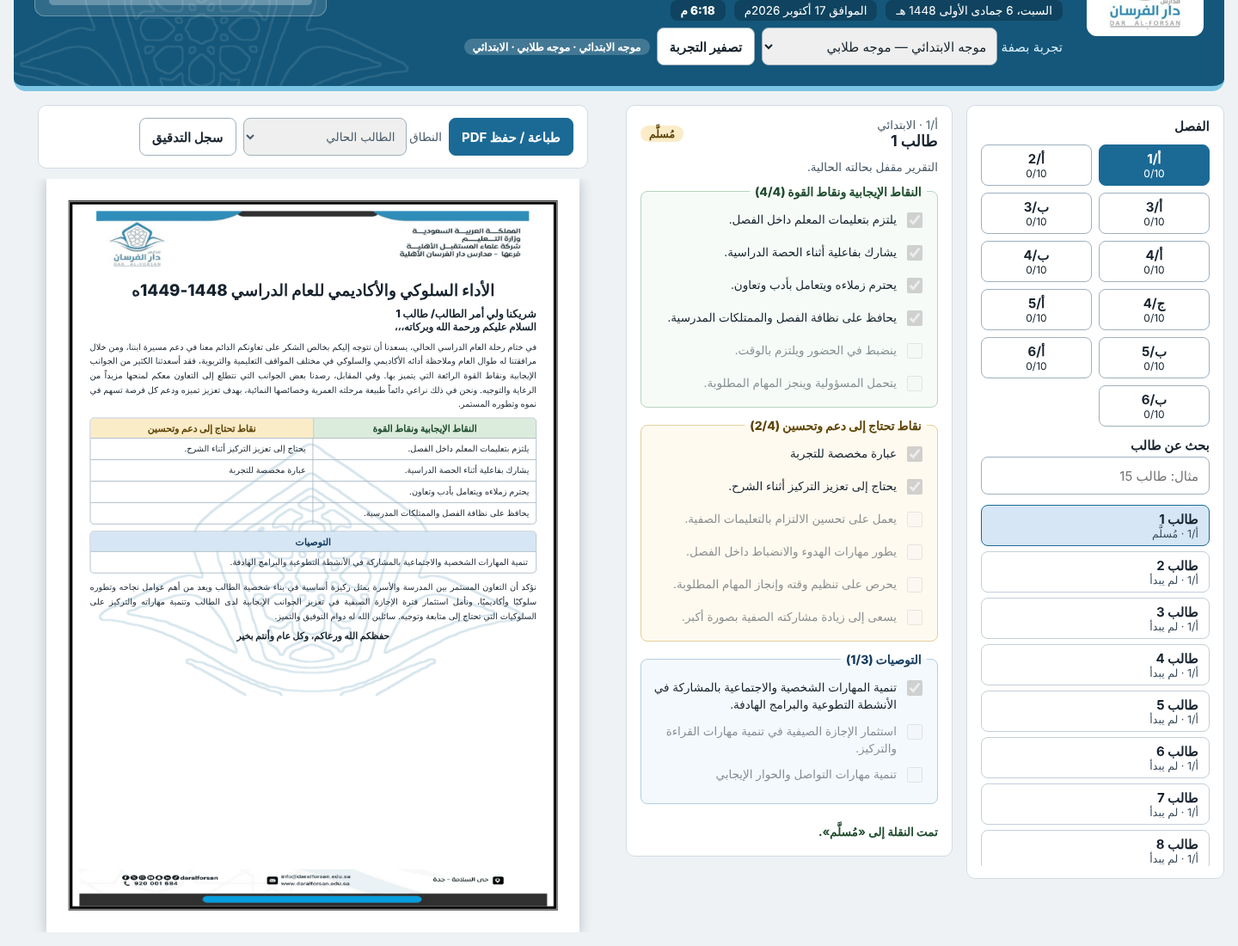
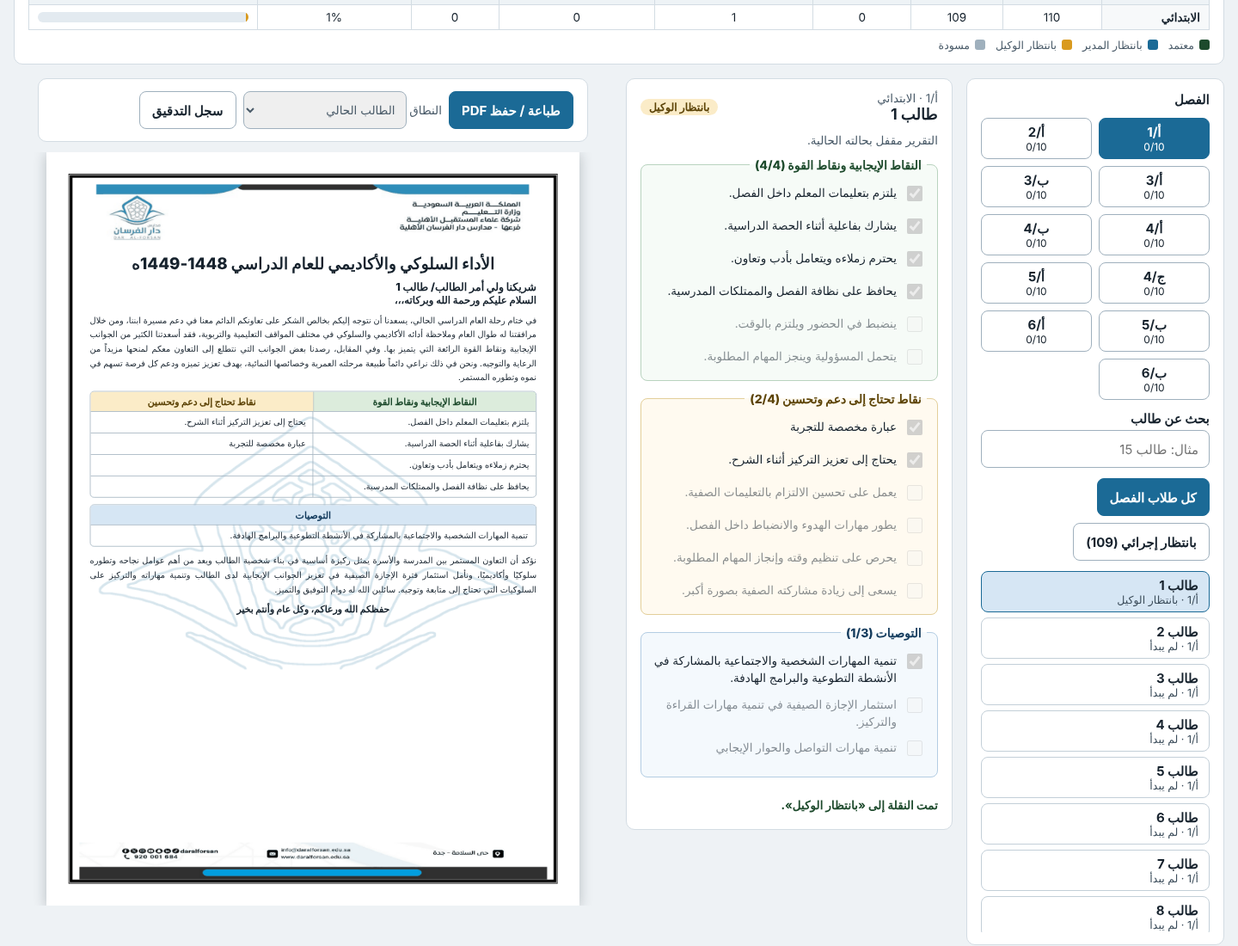
Add follow-up dashboard, per-user badges and pending-action filter
Workflow wording: counselor sends, deputy reviews and approves, principal
approves or returns to draft. Add api_stats to the Apps Script backend.

Claude-Session: https://claude.ai/code/session_01KMsjYid7dSKs3kAwWCxua1

Changed region(s): [[0.0, 0.0, 1.0, 0.9891], [0.0312, 0.8964, 0.4688, 0.9891]]

diff --git a/web/index.html b/web/index.html
@@ -74,6 +74,19 @@ header.hero>*{position:relative}header.hero>.emb{position:absolute}
 .hero .ctl select,.hero .ctl .btn{color:var(--ink)}
 .hero .ctl label{color:#d6ecf7}
 
+
+.ub{display:grid;grid-template-columns:repeat(auto-fill,minmax(210px,1fr));gap:8px}
+.uc{text-align:right;border:1px solid var(--line);border-radius:10px;background:#fff;padding:8px 10px;display:flex;flex-direction:column;gap:4px;min-height:92px}
+.uc.sel{border-color:var(--pri);box-shadow:0 0 0 2px #1b6a9633;background:#eaf3f9}
+.uc .un{font-weight:800;font-size:14px}.uc .ur{font-size:12px;color:var(--mut)}
+.pills{display:flex;flex-wrap:wrap;gap:4px;margin-top:2px}
+.pl{font-size:12px;border-radius:999px;padding:1px 8px;border:1px solid #c3cfd8;background:#f4f7f9}
+.pl b{font-size:13px}.pl.ok{background:#dcecdc;border-color:#b9d3bf;color:#1d4a2c}.pl.act{background:#fbecc8;border-color:#e3cf9a;color:#5c4306}
+.dash{display:flex;flex-direction:column;gap:10px}.dmsg{margin:0;font-size:15px}
+.dt{border-collapse:collapse;width:100%;font-size:13.5px}.dt th,.dt td{border:1px solid var(--line);padding:6px 10px;text-align:center}.dt thead th{background:#eef3f6}.dt tbody th{text-align:right;background:#f7f9fa}.dt tr.tot td,.dt tr.tot th{font-weight:800;background:#eef3f6}
+.sbar{display:flex;height:12px;border-radius:6px;overflow:hidden;background:#e3eaf0}.sbar i{display:block;height:12px}
+.legend{display:flex;flex-wrap:wrap;gap:12px;font-size:12.5px;color:var(--mut)}.legend i{display:inline-block;width:12px;height:12px;border-radius:3px;margin-left:6px;vertical-align:-1px}
+
 /* ───── التقرير A4 ───── */
 .sheet,.sheet *{-webkit-print-color-adjust:exact;print-color-adjust:exact}
 .sheet{position:relative;width:794px;height:1123px;overflow:hidden;background:#fff;font-family:'Tajawal','Segoe UI',Tahoma,sans-serif;color:#16222d}
@@ -113,7 +126,7 @@ const MAX={strength:4,improve:4,recommend:3}, MAXC=120;
 const CATS=['strength','improve','recommend'];
 const STAGE_AR={primary:'الابتدائي',middle:'المتوسط',secondary:'الثانوي',all:'كل المراحل'};
 const ROLE_AR={counselor:'موجه طلابي',deputy:'وكيل شؤون الطلاب',principal:'مدير المدرسة',admin:'مدير النظام'};
-const ST_AR={NONE:'لم يبدأ',DRAFT:'مسودة',SUBMITTED:'مُسلَّم',REVIEWED:'مُراجَع',APPROVED:'مُعتمَد',PUBLISHED:'منشور'};
+const ST_AR={NONE:'لم يبدأ',DRAFT:'مسودة',SUBMITTED:'بانتظار الوكيل',REVIEWED:'بانتظار المدير',APPROVED:'معتمد',PUBLISHED:'منشور'};
 const TRANS={
  DRAFT:{SUBMITTED:['counselor','deputy','admin']},
  SUBMITTED:{REVIEWED:['deputy','admin'],DRAFT:['deputy','principal','admin']},
@@ -159,6 +172,8 @@ const Mock=(()=>{
    if(to==='PUBLISHED')r.pdfUrl='https://drive.example.test/demo/'+id+'.pdf (رابط تجريبي، محاكاة)';
    r.updated=new Date().toISOString();log('TRANSITION','R-'+id,from+' -> '+to+(reason?' | '+reason:''));
    return wait({status:to,pdfUrl:r.pdfUrl||''});}catch(e){return fail(e)}},
+  stats(){const o={};['primary','middle','secondary'].forEach(k=>o[k]={total:0,NONE:0,DRAFT:0,SUBMITTED:0,REVIEWED:0,APPROVED:0,PUBLISHED:0});
+   DEMO.students.forEach(s=>{const k=(db.reports[s.id]||{}).status||'NONE';o[s.stage].total++;o[s.stage][k]++;});return wait({stages:o});},
   audit:()=>wait(db.audit.slice(-60).reverse()),
   reset(){db={reports:{},audit:[]};save();}
  };
@@ -166,18 +181,53 @@ const Mock=(()=>{
 const Gas=(()=>{ // يُستخدم داخل Apps Script الحقيقي
  const call=(fn,...a)=>new Promise((res,rej)=>google.script.run.withSuccessHandler(res).withFailureHandler(e=>rej(new Error(e.message||e)))[fn](...a));
  return{isMock:false,users:()=>[],as:()=>call('api_me'),me:()=>call('api_me'),students:()=>call('api_students'),library:()=>call('api_library'),
-  getReport:id=>call('api_getReport',id),saveReport:(id,i)=>call('api_saveReport',id,i),transition:(id,t,r)=>call('api_transition',id,t,r),audit:async()=>[],reset(){}};
+  getReport:id=>call('api_getReport',id),saveReport:(id,i)=>call('api_saveReport',id,i),transition:(id,t,r)=>call('api_transition',id,t,r),audit:async()=>[],stats:()=>call('api_stats'),reset(){}};
 })();
 const B=(typeof google!=='undefined'&&google.script)?Gas:Mock;
 
 /* ═════════ الحالة والواجهة ═════════ */
-const S={user:null,students:[],lib:[],cls:null,cur:null,items:[],status:'NONE',pdfUrl:'',q:'',msg:'',msgKind:'',reason:'',drafts:{strength:'',improve:'',recommend:''},printScope:'student'};
+const S={user:null,students:[],lib:[],cls:null,cur:null,items:[],status:'NONE',pdfUrl:'',q:'',msg:'',msgKind:'',reason:'',drafts:{strength:'',improve:'',recommend:''},printScope:'student',stats:null,filter:'all'};
 const $=s=>document.querySelector(s);
 const esc=s=>String(s).replace(/[&<>"]/g,c=>({'&':'&amp;','<':'&lt;','>':'&gt;','"':'&quot;'}[c]));
 const L=c=>'<bdi dir="ltr">'+esc(c)+'</bdi>';
 const fmtDate=(loc,o)=>{try{return new Intl.DateTimeFormat(loc,Object.assign({timeZone:'Asia/Riyadh'},o)).format(new Date());}catch(e){return '';}};
 function clockHtml(){return '<span>'+fmtDate('ar-SA-u-ca-islamic-umalqura-nu-latn',{weekday:'long',day:'numeric',month:'long',year:'numeric'})+'</span><span>الموافق '+fmtDate('ar-SA-u-ca-gregory-nu-latn',{day:'numeric',month:'long',year:'numeric'})+'م</span><span style="font-weight:800">'+fmtDate('ar-SA-u-nu-latn',{hour:'numeric',minute:'2-digit',hour12:true})+'</span>';}
 setInterval(()=>{const c=document.getElementById('clk');if(c)c.innerHTML=clockHtml();},20000);
+
+/* ───── المتابعة وفاعلية العمل ───── */
+const STG=['primary','middle','secondary'];
+const stagesFor=u=>(['principal','admin'].includes(u.role)||u.stage==='all')?STG:[u.stage];
+function agg(stats,stages){const a={total:0,NONE:0,DRAFT:0,SUBMITTED:0,REVIEWED:0,APPROVED:0,PUBLISHED:0};
+ stages.forEach(s=>{const x=stats&&stats.stages&&stats.stages[s];if(x)for(const k in a)a[k]+=x[k]||0;});return a;}
+const sent=a=>a.SUBMITTED+a.REVIEWED+a.APPROVED+a.PUBLISHED;
+const depOk=a=>a.REVIEWED+a.APPROVED+a.PUBLISHED;
+const finOk=a=>a.APPROVED+a.PUBLISHED;
+function badgesFor(u){const a=agg(S.stats,stagesFor(u));
+ if(u.role==='counselor')return[['أُرسل',sent(a),'ok'],['متبقٍ',a.total-sent(a),'rem']];
+ if(u.role==='deputy')return[['بانتظارك',a.SUBMITTED,'act'],['متبقٍ للاعتماد',a.total-depOk(a),'rem']];
+ if(u.role==='principal')return[['مرسَل',sent(a),'ok'],['معتمد',finOk(a),'ok'],['بانتظارك',a.REVIEWED,'act']];
+ return[['الطلاب',a.total,'rem']];}
+const todoSt=u=>u.role==='deputy'?['SUBMITTED']:u.role==='principal'?['REVIEWED']:['NONE','DRAFT'];
+function usersBarHtml(){
+ if(!B.isMock)return '';
+ return '<div class="card"><div class="sub" style="margin-bottom:8px">تجربة بصفة مستخدم آخر — الأرقام بجانب كل مستخدم تتغير مع تقدّم العمل:</div><div class="ub">'+
+  B.users().map(x=>'<button class="uc'+(x.email===S.user.email?' sel':'')+'" data-who="'+x.email+'"><span class="un">'+esc(x.name)+'</span><span class="ur">'+ROLE_AR[x.role]+' · '+STAGE_AR[x.stage]+'</span><span class="pills">'+
+   badgesFor(x).map(b=>'<span class="pl '+b[2]+'"><b>'+b[1]+'</b> '+b[0]+'</span>').join('')+'</span></button>').join('')+'</div></div>';}
+function dashHtml(){
+ const u=S.user,st=stagesFor(u),tot=agg(S.stats,st);
+ let msg='';
+ if(u.role==='counselor')msg='أرسلتَ <b>'+sent(tot)+'</b> من <b>'+tot.total+'</b> تقريراً، والمتبقي لك <b>'+(tot.total-sent(tot))+'</b>.';
+ else if(u.role==='deputy')msg='بانتظار مراجعتك واعتمادك <b>'+tot.SUBMITTED+'</b> تقريراً، ولم يصلك بعد <b>'+(tot.total-sent(tot))+'</b> من أصل <b>'+tot.total+'</b>.';
+ else if(u.role==='principal')msg='المرسَل <b>'+sent(tot)+'</b> · المعتمد <b>'+finOk(tot)+'</b> · بانتظار اعتمادك <b>'+tot.REVIEWED+'</b> من أصل <b>'+tot.total+'</b> طالباً.';
+ else msg='إجمالي الطلاب <b>'+tot.total+'</b>.';
+ const seg=(a)=>{const t=a.total||1,w=n=>(n/t*100).toFixed(1)+'%';
+  return '<div class="sbar" role="img" aria-label="توزيع الحالات"><i style="width:'+w(finOk(a))+';background:#1d4a2c"></i><i style="width:'+w(a.REVIEWED)+';background:#1b6a96"></i><i style="width:'+w(a.SUBMITTED)+';background:#d99a1e"></i><i style="width:'+w(a.DRAFT)+';background:#9fb0bd"></i></div>';};
+ const row=(label,a,strong)=>'<tr'+(strong?' class="tot"':'')+'><th scope="row">'+label+'</th><td>'+a.total+'</td><td>'+a.NONE+'</td><td>'+a.DRAFT+'</td><td>'+a.SUBMITTED+'</td><td>'+a.REVIEWED+'</td><td>'+finOk(a)+'</td><td>'+(a.total?Math.round(sent(a)/a.total*100):0)+'%</td><td style="min-width:140px">'+seg(a)+'</td></tr>';
+ return '<section class="card dash"><div class="row" style="justify-content:space-between"><h2 style="margin:0;font-size:18px">المتابعة وفاعلية العمل على التقارير</h2><span class="sub">'+STAGE_AR[u.stage]+' · '+ROLE_AR[u.role]+'</span></div>'+
+  '<p class="dmsg">'+msg+'</p><div class="wrap" style="justify-content:flex-start"><table class="dt"><thead><tr><th>المرحلة</th><th>الطلاب</th><th>لم يبدأ</th><th>مسودة</th><th>بانتظار الوكيل</th><th>بانتظار المدير</th><th>معتمد</th><th>نسبة الإرسال</th><th>التوزيع</th></tr></thead><tbody>'+
+  st.map(s=>row(STAGE_AR[s],agg(S.stats,[s]),false)).join('')+(st.length>1?row('الإجمالي',tot,true):'')+'</tbody></table></div>'+
+  '<div class="legend"><span><i style="background:#1d4a2c"></i>معتمد</span><span><i style="background:#1b6a96"></i>بانتظار المدير</span><span><i style="background:#d99a1e"></i>بانتظار الوكيل</span><span><i style="background:#9fb0bd"></i>مسودة</span></div></section>';}
+
 const norm=s=>s.replace(/[أإآٱ]/g,'ا').replace(/ة/g,'ه').replace(/ى/g,'ي').trim();
 const classes=()=>[...new Set(S.students.map(s=>s.class))];
 const curStudent=()=>S.students.find(s=>s.id===S.cur);
@@ -190,7 +240,7 @@ async function boot(){
  render();
  if(S.cls){const f=S.students.find(s=>s.class===S.cls);if(f)await pick(f.id);}
 }
-async function loadAll(){S.user=await B.me();S.students=await B.students();S.lib=await B.library();}
+async function loadAll(){S.user=await B.me();S.students=await B.students();S.lib=await B.library();S.stats=await B.stats();}
 async function switchUser(email){await B.as(email);await loadAll();S.cls=classes()[0];S.cur=null;S.items=[];S.status='NONE';S.q='';S.msg='';render();const f=S.students.find(s=>s.class===S.cls);if(f)await pick(f.id);}
 async function pick(id){
  S.cur=id;S.msg='';S.reason='';
@@ -200,7 +250,7 @@ async function pick(id){
 const has=(cat,t)=>S.items.some(i=>i.category===cat&&i.text===t);
 const editable=()=>['NONE','DRAFT'].includes(S.status)&&['counselor','deputy','admin'].includes(S.user.role);
 async function persist(){
- try{const r=await B.saveReport(S.cur,S.items);S.status=r.status;const s=curStudent();s.status=r.status;say('تم الحفظ كمسودة.','ok');}
+ try{const r=await B.saveReport(S.cur,S.items);S.status=r.status;const s=curStudent();s.status=r.status;S.stats=await B.stats();say('تم الحفظ كمسودة.','ok');}
  catch(e){say(e.message,'err');await pick(S.cur);return;}
  render();
 }
@@ -217,7 +267,7 @@ async function addCustom(cat){
 }
 async function go(to){
  const needReason=to==='DRAFT';
- try{const r=await B.transition(S.cur,to,needReason?S.reason:'');S.status=r.status;S.pdfUrl=r.pdfUrl||'';curStudent().status=r.status;S.reason='';say('تمت النقلة إلى «'+ST_AR[r.status]+'».','ok');}
+ try{const r=await B.transition(S.cur,to,needReason?S.reason:'');S.status=r.status;S.pdfUrl=r.pdfUrl||'';curStudent().status=r.status;S.stats=await B.stats();S.reason='';say('تمت النقلة إلى «'+ST_AR[r.status]+'».','ok');}
  catch(e){say(e.message,'err');}
  render();
 }
@@ -248,7 +298,7 @@ function optsHtml(cat){
 function actionsHtml(){
  const out=[],u=S.user.role,st=S.status;
  const t=TRANS[st]||{};
- const lbl={SUBMITTED:'تسليم للمراجعة',REVIEWED:'اعتماد المراجعة',APPROVED:'اعتماد المدير',PUBLISHED:'نشر وتوليد PDF',DRAFT:'إعادة للمسودة'};
+ const lbl={SUBMITTED:'إرسال للوكيل',REVIEWED:'مراجعة واعتماد الوكيل',APPROVED:'اعتماد المدير',PUBLISHED:'نشر وتوليد PDF',DRAFT:'إعادة للمسودة'};
  Object.keys(t).forEach(to=>{if(t[to].includes(u))out.push('<button class="btn'+(to==='DRAFT'?'':' pri')+'" data-go="'+to+'">'+lbl[to]+'</button>');});
  let reason='';
  if((t.DRAFT||[]).includes(u))reason='<input id="reason" placeholder="سبب الإعادة (مطلوب عند الإعادة)" value="'+esc(S.reason)+'" aria-label="سبب الإعادة" style="flex:1 1 200px;min-height:44px;border:1px solid #9fb0bd;border-radius:8px;padding:0 12px">';
@@ -257,19 +307,21 @@ function actionsHtml(){
 function render(){
  const u=S.user,vis=S.students,done=vis.filter(s=>['APPROVED','PUBLISHED'].includes(s.status)).length,pct=vis.length?Math.round(done/vis.length*100):0;
  const q=norm(S.q);
- const list=(q?vis.filter(s=>norm(s.name).includes(q)):vis.filter(s=>s.class===S.cls)).slice(0,60);
+ const todo=vis.filter(s=>todoSt(u).includes(s.status));
+ const list=(q?vis.filter(s=>norm(s.name).includes(q)):S.filter==='todo'?todo:vis.filter(s=>s.class===S.cls)).slice(0,60);
  const users=B.isMock?B.users():[];
  const stu=curStudent();
  $('#app').innerHTML=
  "<header class=\"hero\"><img class=\"emb\" src=\"assets/wm_white.png\" alt=\"\" aria-hidden=\"true\"><div class=\"logo\"><img src=\"assets/logo.png\" alt=\"شعار مدارس دار الفرسان الأهلية\"></div>"+
  "<div class=\"tt\"><div class=\"row\"><span class=\"chip2\">العام الدراسي "+esc(DEMO.year)+"هـ</span><span class=\"chip2 w\">الفصل الدراسي الأول</span></div><h1>تقارير الأداء السلوكي والأكاديمي</h1><div class=\"sub2\">مدارس دار الفرسان الأهلية · القسم الأهلي · "+(B.isMock?"نسخة تجريبية (بيانات افتراضية، محاكاة محلية)":"متصل بالشيت")+"</div>"+
  "<div class=\"clk\" id=\"clk\">"+clockHtml()+"</div>"+
- "<div class=\"ctl\">"+(B.isMock?"<label>تجربة بصفة <select id=\"who\" style=\"min-height:44px;border:1px solid #9fb0bd;border-radius:8px;padding:0 8px\">"+users.map(x=>"<option value=\""+x.email+"\""+(x.email===u.email?" selected":"")+">"+esc(x.name)+" — "+ROLE_AR[x.role]+"</option>").join("")+"</select></label><button class=\"btn\" id=\"reset\">تصفير التجربة</button>":"")+"<span class=\"badge\">"+esc(u.name)+" · "+ROLE_AR[u.role]+" · "+STAGE_AR[u.stage]+"</span></div></div>"+
+ "<div class=\"ctl\">"+(B.isMock?"<button class=\"btn\" id=\"reset\">تصفير التجربة</button>":"")+"<span class=\"badge\">"+esc(u.name)+" · "+ROLE_AR[u.role]+" · "+STAGE_AR[u.stage]+"</span></div></div>"+
  "<div class=\"prog\"><div class=\"row\" style=\"justify-content:space-between;font-weight:700\"><span>المعتمد/المنشور ضمن نطاقك</span><span>"+done+" من "+vis.length+"</span></div><div class=\"bar\"><i style=\"width:"+pct+"%\"></i></div></div></header>"+
+ usersBarHtml()+dashHtml()+
  '<div class="cols">'+
  '<section class="card c1"><div style="font-weight:700">الفصل</div><div class="chips">'+classes().map(c=>{const n=vis.filter(s=>s.class===c);const d=n.filter(s=>['APPROVED','PUBLISHED'].includes(s.status)).length;return '<button class="chip'+(c===S.cls&&!q?' sel':'')+'" data-cls="'+c+'"><b>'+L(c)+'</b><small>'+d+'/'+n.length+'</small></button>';}).join('')+'</div>'+
  '<label style="font-weight:700;display:flex;flex-direction:column;gap:4px">بحث عن طالب<input id="q" type="search" value="'+esc(S.q)+'" placeholder="مثال: طالب 15" style="min-height:44px;border:1px solid #9fb0bd;border-radius:8px;padding:0 12px;font-weight:400"></label>'+
- '<div class="list">'+list.map(s=>'<button class="st'+(s.id===S.cur?' sel':'')+'" data-stu="'+s.id+'"><b>'+esc(s.name)+'</b><small>'+L(s.class)+' · '+ST_AR[s.status]+'</small></button>').join('')+(list.length?'':'<div class="sub">لا نتائج.</div>')+'</div></section>'+
+ '<div class="row"><button class="btn'+(S.filter==='all'?' sel':'')+'" data-flt="all">كل طلاب الفصل</button><button class="btn'+(S.filter==='todo'?' sel':'')+'" data-flt="todo">بانتظار إجرائي ('+todo.length+')</button></div><div class="list">'+list.map(s=>'<button class="st'+(s.id===S.cur?' sel':'')+'" data-stu="'+s.id+'"><b>'+esc(s.name)+'</b><small>'+L(s.class)+' · '+ST_AR[s.status]+'</small></button>').join('')+(list.length?'':'<div class="sub">لا نتائج.</div>')+'</div></section>'+
  '<section class="card c2">'+(stu?
   '<div class="row" style="justify-content:space-between"><div><div class="sub">'+L(stu.class)+' · '+STAGE_AR[stu.stage]+'</div><h2 style="margin:0;font-size:18px">'+esc(stu.name)+'</h2></div><span class="badge b-'+(S.status==='NONE'?'DRAFT':S.status)+'">'+ST_AR[S.status]+'</span></div>'+
   (editable()?'':'<div class="sub">'+(['counselor','deputy','admin'].includes(u.role)?'التقرير مقفل بحالته الحالية.':'دورك لا يحرّر المحتوى؛ يمكنك الاعتماد أو الإعادة بحسب الحالة.')+'</div>')+
@@ -290,7 +342,7 @@ function render(){
 }
 function bind(){
  const app=$('#app');
- app.querySelectorAll('[data-cls]').forEach(b=>b.onclick=()=>{S.q='';S.cls=b.dataset.cls;const f=S.students.find(s=>s.class===S.cls);f?pick(f.id):render();});
+ app.querySelectorAll('[data-cls]').forEach(b=>b.onclick=()=>{S.q='';S.filter='all';S.cls=b.dataset.cls;const f=S.students.find(s=>s.class===S.cls);f?pick(f.id):render();});
  app.querySelectorAll('[data-stu]').forEach(b=>b.onclick=()=>pick(b.dataset.stu));
  app.querySelectorAll('input[type=checkbox]').forEach(c=>c.onchange=()=>toggle(c.dataset.cat,c.dataset.t));
  app.querySelectorAll('form[data-add]').forEach(f=>f.onsubmit=e=>{e.preventDefault();addCustom(f.dataset.add);});
@@ -298,7 +350,8 @@ function bind(){
  app.querySelectorAll('[data-go]').forEach(b=>b.onclick=()=>go(b.dataset.go));
  const r=$('#reason');if(r)r.oninput=()=>{S.reason=r.value;};
  const q=$('#q');if(q)q.oninput=()=>{S.q=q.value;const pos=q.selectionStart;render();const n=$('#q');n.focus();n.setSelectionRange(pos,pos);};
- const w=$('#who');if(w)w.onchange=()=>switchUser(w.value);
+ app.querySelectorAll('[data-who]').forEach(b=>b.onclick=()=>switchUser(b.dataset.who));
+ app.querySelectorAll('[data-flt]').forEach(b=>b.onclick=()=>{S.filter=b.dataset.flt;render();});
  const rs=$('#reset');if(rs)rs.onclick=async()=>{B.reset();await loadAll();S.cur=null;S.items=[];S.status='NONE';render();const f=S.students.find(s=>s.class===S.cls);if(f)await pick(f.id);};
  const sc=$('#scope');if(sc)sc.onchange=()=>{S.printScope=sc.value;};
  const pr=$('#print');if(pr)pr.onclick=doPrint;

diff --git a/tests/e2e.js b/tests/e2e.js
@@ -21,20 +21,27 @@ const out=[];const ok=(c,m)=>out.push((c?'نجح: ':'فشل: ')+m);
  ok((await p.textContent('.sheet'))?.includes('عبارة مخصصة للتجربة'),'العبارة المخصصة تظهر في المعاينة');
  // تسليم
  await p.click('[data-go=SUBMITTED]');await p.waitForTimeout(300);
- ok((await p.textContent('.badge.b-SUBMITTED'))==='مُسلَّم','التسليم يغيّر الحالة');
+ ok((await p.textContent('.badge.b-SUBMITTED'))==='بانتظار الوكيل','الإرسال يغيّر الحالة إلى بانتظار الوكيل');
+ ok((await p.textContent('.dash')).includes('المتابعة وفاعلية العمل'),'لوحة المتابعة ظاهرة');
+ ok((await p.textContent('[data-who="counselor.primary@example.test"]')).includes('أُرسل')&&(await p.textContent('[data-who="counselor.primary@example.test"] .pl.ok b'))==='1','شارة الموجه: أُرسل 1');
+ ok((await p.textContent('[data-who="deputy.primary@example.test"] .pl.act b'))==='1','شارة وكيل الابتدائي: بانتظارك 1');
+ ok((await p.textContent('[data-who="deputy.middle@example.test"] .pl.act b'))==='0','وكيل المتوسط: بانتظارك 0');
  ok(await p.$$eval('fieldset input:not(:disabled)',e=>e.length)===0,'التقرير المُسلَّم مقفل للتعديل');
  await p.screenshot({path:'shot1.png'});
  // وكيل المتوسط لا يرى الطالب
- await p.selectOption('#who','deputy.middle@example.test');await p.waitForTimeout(400);
+ await p.click('[data-who=\"deputy.middle@example.test\"]');await p.waitForTimeout(400);
  const cm=await p.$$eval('[data-cls]',e=>e.map(x=>x.dataset.cls));ok(cm.every(c=>c.includes('م'))&&cm.length===6,'وكيل المتوسط يرى فصول المتوسط الستة فقط');
  // وكيل الابتدائي يراجع
- await p.selectOption('#who','deputy.primary@example.test');await p.waitForTimeout(400);
+ await p.click('[data-who=\"deputy.primary@example.test\"]');await p.waitForTimeout(400);
  await p.click('[data-stu="S-0001"]');await p.waitForTimeout(300);
- ok(await p.$('[data-go=REVIEWED]')!==null,'وكيل الابتدائي يرى زر المراجعة');
+ ok(await p.$('[data-go=REVIEWED]')!==null,'وكيل الابتدائي يرى زر المراجعة والاعتماد');
+ await p.click('[data-flt=todo]');await p.waitForTimeout(200);
+ ok((await p.$$eval('[data-stu]',e=>e.length))===1,'فلتر «بانتظار إجرائي» يعرض تقريراً واحداً للوكيل');
  await p.click('[data-go=REVIEWED]');await p.waitForTimeout(300);
+ ok((await p.textContent('[data-who="principal@example.test"] .pl.act b'))==='1','شارة المدير: بانتظارك 1');
  ok(await p.$('[data-go=APPROVED]')===null,'الوكيل لا يملك زر الاعتماد');
  // المدير يعتمد وينشر
- await p.selectOption('#who','principal@example.test');await p.waitForTimeout(500);
+ await p.click('[data-who=\"principal@example.test\"]');await p.waitForTimeout(500);
  await p.click('[data-stu="S-0001"]');await p.waitForTimeout(300);
  await p.click('[data-go=APPROVED]');await p.waitForTimeout(300);
  await p.click('[data-go=PUBLISHED]');await p.waitForTimeout(300);

diff --git a/docs/HANDOFF.md b/docs/HANDOFF.md
@@ -15,7 +15,8 @@
 ## القرارات
 - **قاعدة البيانات:** Google Sheets، ملكه مدير النظام فقط ولا يُشارك مع المعلمين.
 - **الوصول:** تطبيق ويب Apps Script مقيّد بدومين المدرسة؛ التصفية حسب المرحلة في الخادم عبر ورقة `Staff`.
-- **سير العمل:** DRAFT ← SUBMITTED ← REVIEWED ← APPROVED ← PUBLISHED، وبعد الاعتماد يُقفل التقرير. إعادة الفتح بسبب مكتوب.
+- **سير العمل:** الموجه يرسل (SUBMITTED=بانتظار الوكيل) ← الوكيل يراجع ويعتمد (REVIEWED=بانتظار المدير) ← المدير يعتمد (APPROVED) أو يعيد للمسودة بسبب مكتوب ← النشر (PUBLISHED). التقرير مقفل بعد الإرسال.
+- **المتابعة:** `api_stats` في Apps Script تعيد إحصاءات كل مرحلة ضمن صلاحية المستخدم؛ الواجهة تعرضها في صندوق المتابعة وفي شارات بجانب كل مستخدم (الموجه: أُرسل/متبقٍ، الوكيل: بانتظارك/متبقٍ للاعتماد، المدير: مرسَل/معتمد/بانتظارك).
 - **الحدود:** 4 قوة، 4 تحسين، 3 توصيات. العبارة المخصصة ≤ 120 حرفاً. تخزين **نص** العبارة (لقطة) لا مرجعها فقط.
 - **التسليم:** PDF في Drive بأسماء معرّفات داخلية لا أسماء الطلاب. الرابط مفتوح أو مشارك مع بريد وليّ الأمر (قرار معلّق).
 - **لا اقتراح آلي** لعبارات الطلاب، ولا تصنيف آلي. أي مساعد ذكي مستقبلاً يكون مسودة يعتمدها الموجه.

diff --git a/README.md b/README.md
@@ -12,7 +12,9 @@
 |---|---|
 | عزل المراحل | موجه الابتدائي لا يرى فصول المتوسط، والمدير يرى 19 فصلاً |
 | تحرير التقرير | اختيار عبارات حتى 4/4/3، وعبارة مخصصة ≤ 120 حرفاً، ومعاينة A4 فورية |
-| سير العمل | مسودة ← تسليم ← مراجعة (وكيل) ← اعتماد (مدير) ← نشر، وقفل بعد التسليم |
+| سير العمل | الموجه **يرسل** ← الوكيل **يراجع ويعتمد** ← المدير **يعتمد أو يعيد للمسودة بسبب** ← نشر. التقرير مقفل بعد الإرسال |
+| المتابعة | صندوق «المتابعة وفاعلية العمل على التقارير» يعرض كل مرحلة بدورك، وبجانب كل مستخدم أرقام تتغير: الموجه (أُرسل/متبقٍ)، الوكيل (بانتظارك/متبقٍ للاعتماد)، المدير (مرسَل/معتمد/بانتظارك) |
+| ما ينتظرني | زر «بانتظار إجرائي» يعرض تقارير دورك المنتظرة عبر كل الفصول |
 | الإعادة | تتطلب سبباً مكتوباً |
 | التدقيق | زر «سجل التدقيق» |
 | الطباعة | «طباعة / حفظ PDF» من المتصفح (A4) |
